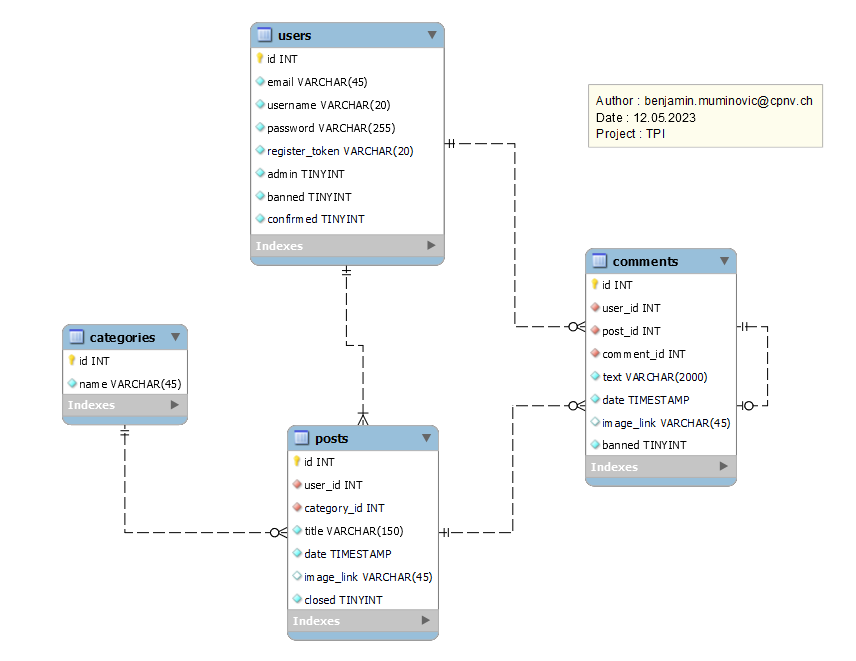
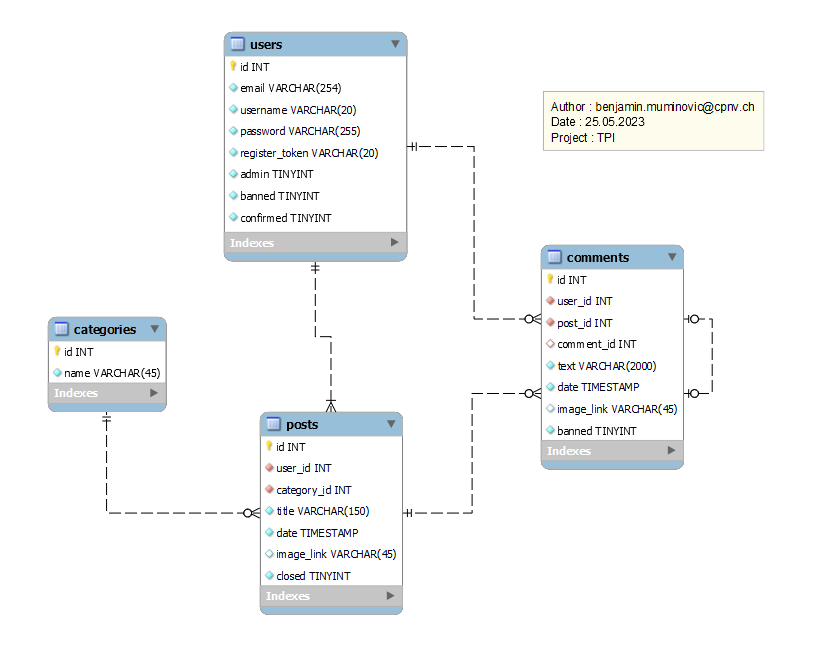
Correction du MLD + script + code

diff --git a/src/controller/controller.php b/src/controller/controller.php
@@ -26,8 +26,8 @@ function register($registerData) {
     } else if(preg_match($exp, $registerData['formRegisterEmail']) == false) {
         $err = "L'adresse mail n'est pas conforme";
     }
-    else if(strlen($registerData['formRegisterEmail']) > 45) {
-        $err = "L'adresse mail dépasse les 45 charactères autorisés";
+    else if(strlen($registerData['formRegisterEmail']) > 254) {
+        $err = "L'adresse mail dépasse les 254 charactères autorisés";
     } 
     else if(strlen($registerData['formRegisterUsername']) > 20) {
         $err = "Le nom d'utilisateur dépasse les 20 charactères";
